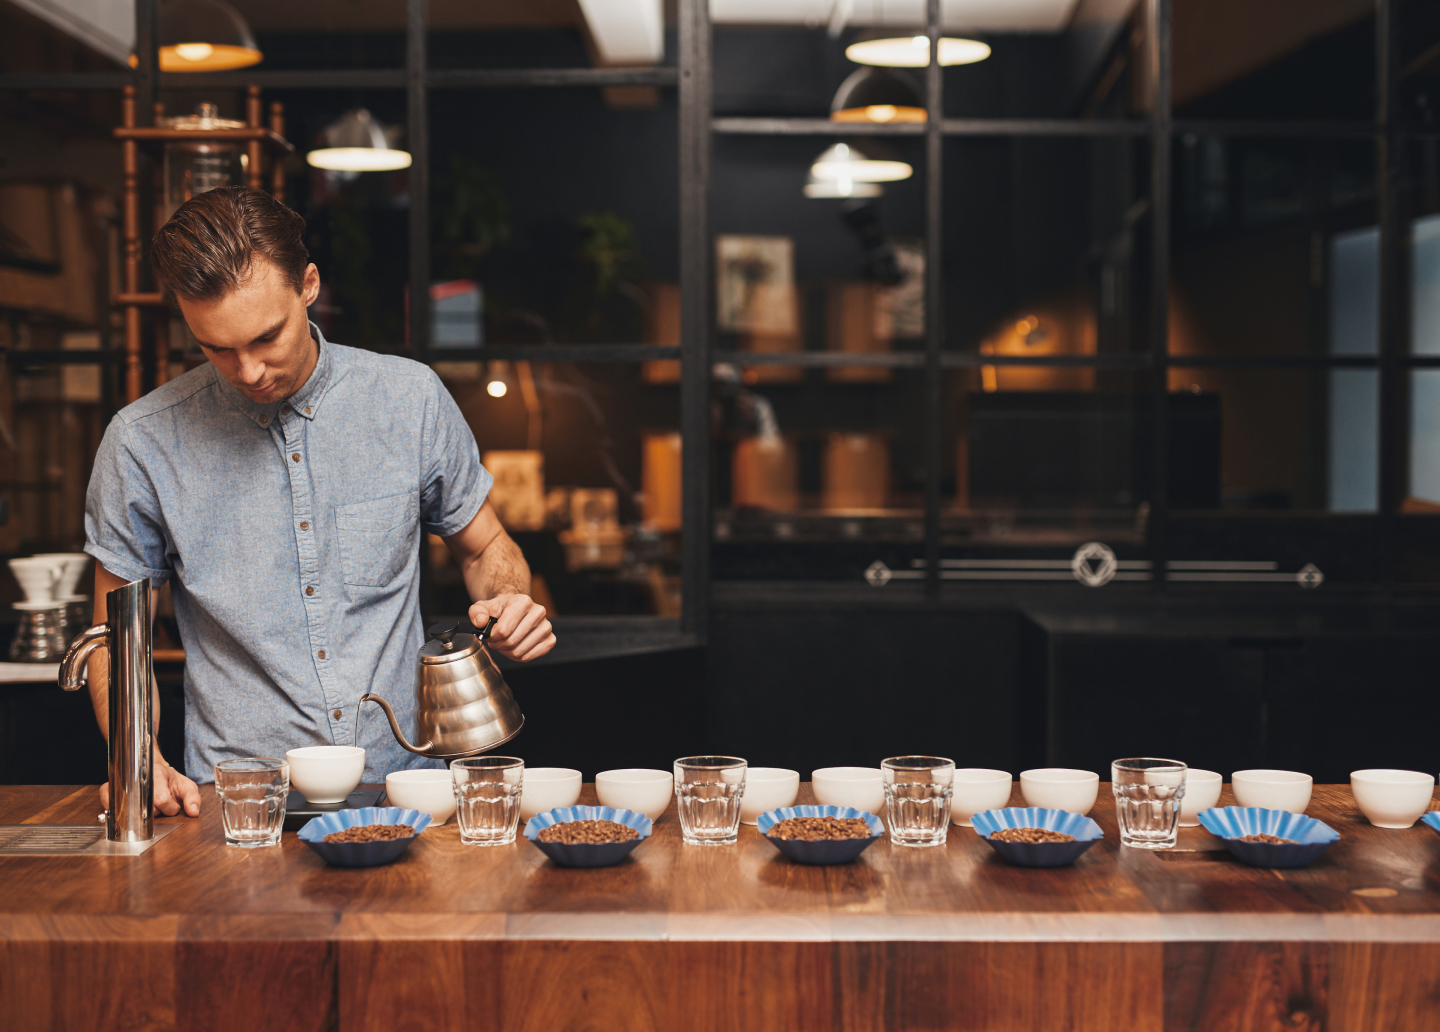
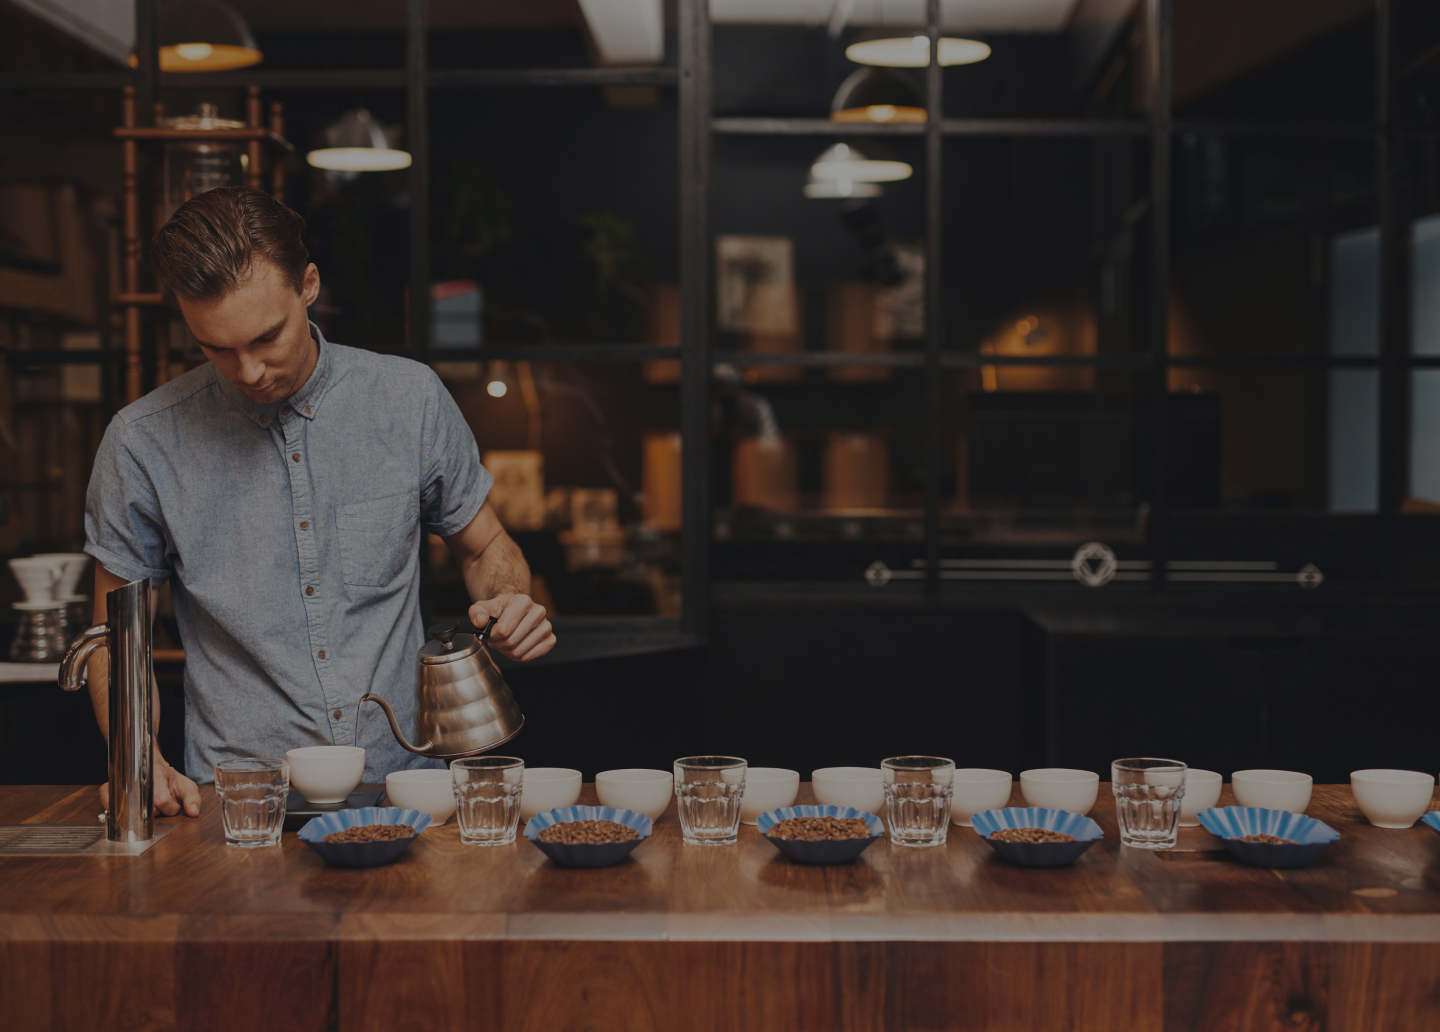
Added: main section
* Changed main section image

diff --git a/css/style.scss b/css/style.scss
@@ -12,6 +12,11 @@ body {
 * {
     color: #fff;
 }
+.button {
+    padding: 0px 40px;
+    border: 1px solid #FFFFFF;
+    line-height: 48px;
+}
 /* ===================== HEADER ===================== */
 
 .header {
@@ -51,5 +56,50 @@ body {
     // .header__item
 
     &__item {
+    }
+}
+
+/* ===================== MAIN ===================== */
+
+.main {
+    height: 1032px;
+    background: url('../img/main/background.jpg') 50% 50%/cover no-repeat;
+    text-align: center;
+
+    // .main__content
+
+    &__content {
+        position: relative;
+        height: 100%;
+        display: flex;
+        align-items: center;
+        justify-content: center;
+        flex-direction: column;
+    }
+
+    // .main__img
+
+    &__img {
+    }
+
+    // .main__title
+
+    &__title {
+        font-weight: 700;
+        font-size: 96px;
+        margin-bottom: 24px;
+    }
+
+    // .main__subtitle
+
+    &__subtitle {
+        font-size: 32px;
+        max-width: 760px;
+        margin-bottom: 48px;
+    }
+
+    // .main__button
+
+    &__button {
     }
 }

diff --git a/css/style.css b/css/style.css
@@ -14,6 +14,12 @@ body {
   color: #fff;
 }
 
+.button {
+  padding: 0px 40px;
+  border: 1px solid #FFFFFF;
+  line-height: 48px;
+}
+
 /* ===================== HEADER ===================== */
 .header {
   text-transform: uppercase;
@@ -32,4 +38,28 @@ body {
 .header__list {
   display: flex;
   gap: 40px;
+}
+/* ===================== MAIN ===================== */
+.main {
+  height: 1032px;
+  background: url("../img/main/background.jpg") 50% 50%/cover no-repeat;
+  text-align: center;
+}
+.main__content {
+  position: relative;
+  height: 100%;
+  display: flex;
+  align-items: center;
+  justify-content: center;
+  flex-direction: column;
+}
+.main__title {
+  font-weight: 700;
+  font-size: 96px;
+  margin-bottom: 24px;
+}
+.main__subtitle {
+  font-size: 32px;
+  max-width: 760px;
+  margin-bottom: 48px;
 }

diff --git a/index.html b/index.html
@@ -30,6 +30,14 @@
             </nav>
         </div>
     </header>
+    <main class="main">
+        <div class="main__content">
+            <div class="main__img"><img src="img/main/image.svg" alt="Cofee"></div>
+            <h1 class="main__title">The Coffee Roasters</h1>
+            <h2 class="main__subtitle">We source our coffee seasonally, from farmers who care, and roast to highlight what makes them special.</h2>
+            <a href="#!" class="button main__button">View our menu</a>
+        </div>
+    </main>
 
     <!-- <script src="js/script.js"></script> -->
 </body>
